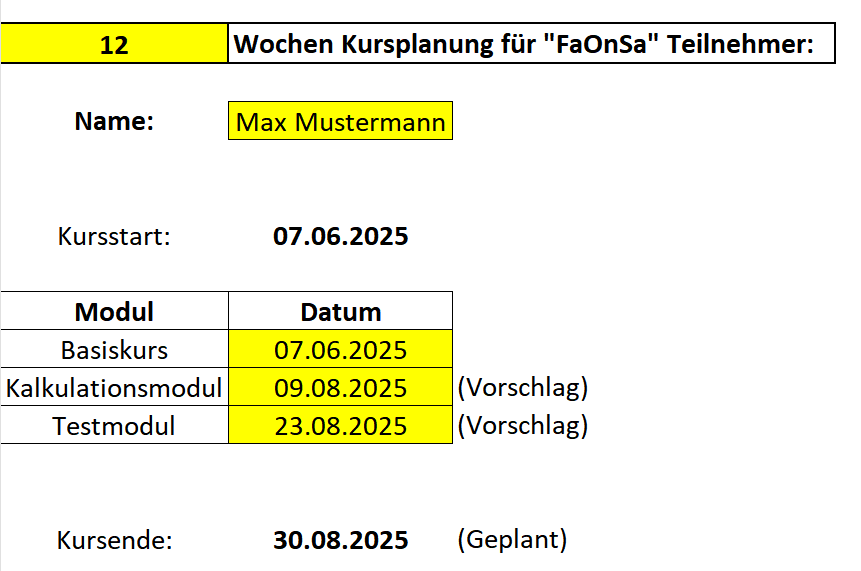
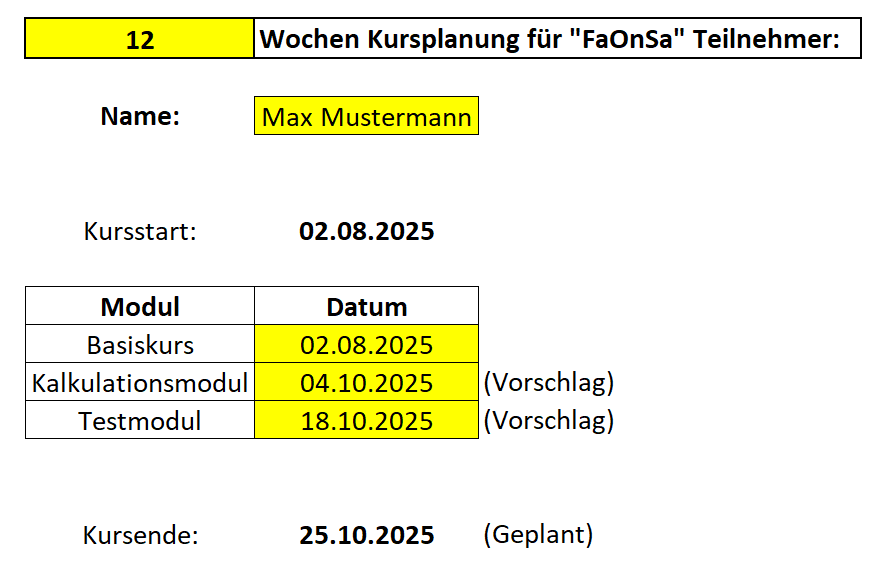
Bilder neu und Livetraining

diff --git a/index.html b/index.html
@@ -365,6 +365,7 @@
         🔄 <b>Flexibilität:</b> Sie integrieren den Lernprozess in Ihren Alltag, ohne eine volle Woche freinehmen zu müssen.</p>
         
     <p><b><span style="background-color: #007bff; color: white; padding: 5px 10px; border-radius: 50%; font-size: 18px;">4</span> Kursdauer und Aufbau:</b><br>
+    <p></b>    
         <img src="faonsa-Kursplan.png" alt="Kursplan" width="300" height="auto"><br>   
         <p>📉 Der 12-Wochen-Plan bietet eine realistische und flexible Möglichkeit zur Prüfungsvorbereitung – besonders geeignet für Berufstätige, die sich nebenbei weiterbilden möchten. Die dargestellten Termine dienen als Beispiel und können individuell angepasst werden, insbesondere der Start des Basiskurses.<br></p>
         📝 Der <b>Basiskurs</b> besteht aus drei aufeinander aufbauenden Modulen:<br>
@@ -398,7 +399,7 @@
     <p><b><span style="background-color: #007bff; color: white; padding: 5px 10px; border-radius: 50%; font-size: 18px;">7</span> Testmodul (optional):</b><br>
         Nach Abschluss der Module können Sie das Testmodul absolvieren. Dieses Modul <b>simuliert</b> eine Prüfung mit <b>40 Fragen</b> und bietet eine umfassende Nachbesprechung mit detaillierter Rückmeldung. Ideal, um Ihre Prüfungskompetenz zu überprüfen.</p>
                 
-    <p><b><span style="background-color: #007bff; color: white; padding: 5px 10px; border-radius: 50%; font-size: 18px;">8</span>Einzigartiges Angebot = Testgenerator + Videopaket!</b><br>
+    <p><b><span style="background-color: #007bff; color: white; padding: 5px 10px; border-radius: 50%; font-size: 18px;">8</span> Einzigartiges Angebot = Testgenerator + Videopaket!</b><br>
         Nutzen Sie meinen <b>Testgenerator</b>, um sich gezielt auf die Fachkundeprüfung vorzubereiten.<br>
                 
         ✅ <b>5</b> Tests für nur <b>9,90€!</b><br>
@@ -409,7 +410,7 @@
 
         ✅ <b>Automatisierte Testgenerierung</b><br>
         Jeder Test wird individuell für Sie erstellt, um eine abwechslungsreiche und umfassende Vorbereitung zu gewährleisten. Diese Tests ermöglichen eine flexible Vorbereitung von zu Hause aus und simulieren die Prüfungsbedingungen realistisch.<br>
-
+    <p></b>
         💡 <b>NEU:</b><br>
         Optional buchbares Videopaket für <b>20€!</b><br>
         <b>Zusätzlich</b> zu den Tests können Sie ein exklusives <b>Videopaket</b> mit 30 Videos buchen. <b>Jedes</b> Video enthält <b>10 Prüfungsfragen</b>, basierend auf meinem umfangreichen <b>Fragenkatalog</b>.<br>
@@ -442,16 +443,10 @@
                 </div>
             </section> 
 
-    <p><b><span style="background-color: #007bff; color: white; padding: 5px 10px; border-radius: 50%; font-size: 18px;">9</span> Kostenvorteil:</b> Als Kleinunternehmer biete ich Ihnen einen <b>günstigeren Preis</b>, da ich <b>keine</b> Mehrwertsteuer berechnen muss.<br>
-        Der <b>Gesamtpreis</b> für den kompletten Kurs (Alle 5 Module, Handout im Ordner, WhatsApp-Support, Lernvideos) beträgt nur <b>435,69€</b> (zuzüglich Lehrbuch als eBook im Handel erhältlich).</p>
-                
-            <img src="faonsa-Preis_2025.png" alt="Preise_Bild" width="315" height="auto">
-            <div style="background-color: #ff9800; color: #ffffff; padding: 10px; text-align: center; font-weight: bold;">Aktion: Achten Sie auf verschiedene Aktionen !!!</div>
-
-    <p><b><span style="background-color: #007bff; color: white; padding: 5px 10px; border-radius: 50%; font-size: 18px;">10</span> *NEU* Mündliche Prüfungssimulationsmodul:</b><br>
+    <p><b><span style="background-color: #007bff; color: white; padding: 5px 10px; border-radius: 50%; font-size: 18px;">9</span> *NEU* Mündliche Prüfungssimulationsmodul:</b><br>
         Bereiten Sie sich optimal auf Ihre <b>mündliche IHK-Prüfung</b> im Taxi- und Mietwagenverkehr vor!<br> 
         Mit meinem <b>Prüfungssimulationsmodul</b> gewinnen Sie Sicherheit und meistern Ihre Prüfung souverän.</p>
-                
+
             <p><b>So funktioniert es:</b></p>
                 
             <p><b>🎓 Prüfungssimulation:</b> Sie durchlaufen eine realistische mündliche Prüfungssituation <b>(Dauer: 30 Minuten).</b><br>
@@ -473,8 +468,20 @@
                 
             <b>Profitieren Sie von meinem Mündliche Prüfungssimulationsmodul und sichern Sie sich Ihren Erfolg. Kontaktieren Sie mich noch heute!</b></p>
                 
-                <img src="faonsa-Ablauf_Mundliche_Prufung.png" alt="Mundliche_Prufung" width="300" height="auto">
 
+                <img src="faonsa-Ablauf_Mundliche_Prufung.png" alt="Mundliche_Prufung" width="300" height="auto">
+    
+    <p><b><span style="background-color: #007bff; color: white; padding: 5px 10px; border-radius: 50%; font-size: 18px;">10</span> *NEU* Live-Training für die Kalkulationen und Berechnungen.</b><br>
+    <p></b>    
+        <img src="faonsa_Live.png" alt="Mundliche_Prufung" width="400" height="auto">
+
+
+    <p><b><span style="background-color: #007bff; color: white; padding: 5px 10px; border-radius: 50%; font-size: 18px;">11</span> Kostenvorteil:</b> Als Kleinunternehmer biete ich Ihnen einen <b>günstigeren Preis</b>, da ich <b>keine</b> Mehrwertsteuer berechnen muss.<br>
+        Der <b>Gesamtpreis</b> für den kompletten Kurs (Alle 5 Module, Handout im Ordner, WhatsApp-Support, Lernvideos) beträgt nur <b>390,69€</b> (zuzüglich Lehrbuch als eBook im Handel erhältlich).</p>
+                
+            <img src="faonsa-Preis_2025.png" alt="Preise_Bild" width="315" height="auto">
+            <div style="background-color: #ff9800; color: #ffffff; padding: 10px; text-align: center; font-weight: bold;">Dauerhaft -25 % auf das Premium-Paket !!!</div>
+    
                 <p><b>>>>>> Noch unsicher ?</b><br>
                     <b>Einblicke in meine Arbeit – Ihr Weg zum Erfolg</b><br>
                     <b>🎥 Das Beratungsvideo unten zeigt, wie ich Sie dabei unterstütze, sich optimal auf die IHK-Fachkundeprüfung vorzubereiten. Erfahren Sie, wie mein Kurs aufgebaut ist und welche Möglichkeiten er bietet, um Ihre Ziele Schritt für Schritt zu verwirklichen.</b>  
